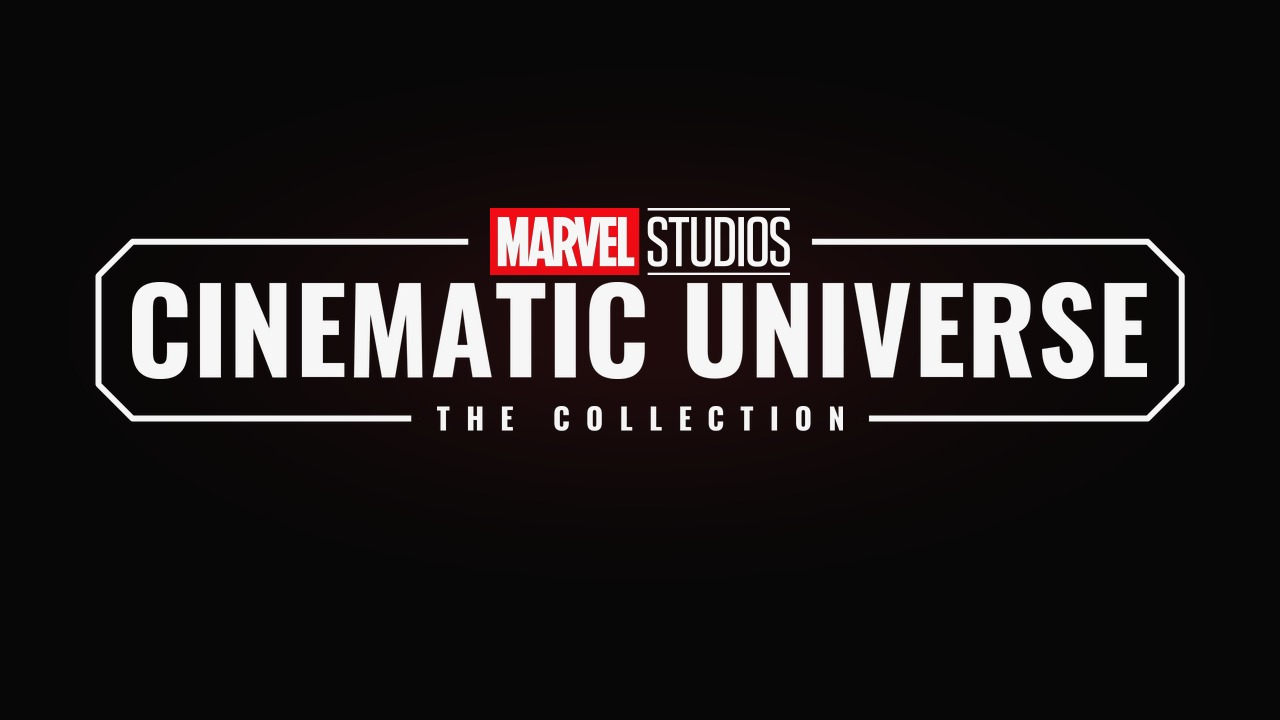
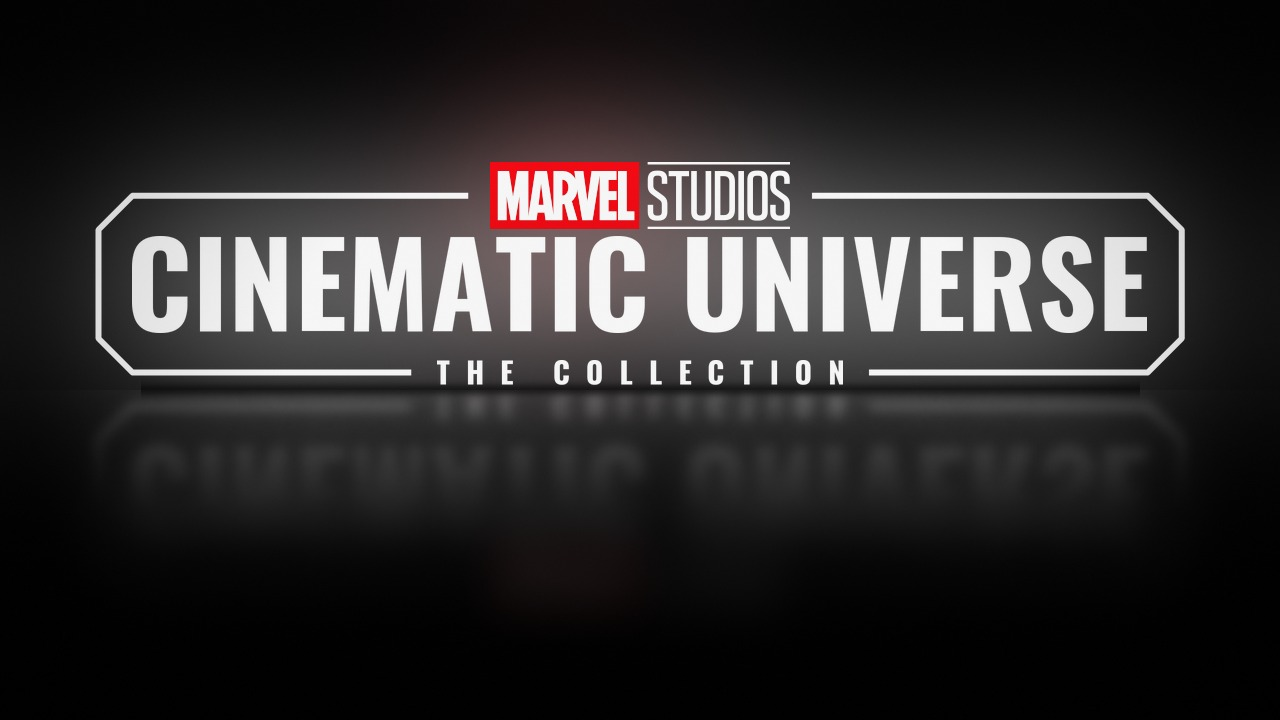
mcu: card redone (the films light the room, floor, camera arc)
Claude-Session: https://claude.ai/code/session_01QqcAdMGokHGeFf5PAk1q99

diff --git a/art/universes/mcu/_src/README.md b/art/universes/mcu/_src/README.md
@@ -1,3 +1,8 @@
+MCU card, rendered by nuvio-awards/art_tools/mcu_light.py (it uses mcu_ident.py --layout universe for the box):
+  python3 art_tools/mcu_light.py <this _src dir> <out dir>
+The films flip inside CINEMATIC UNIVERSE as before; they light the dark room and a glossy black floor, the box stands
+on the floor with its reflection, the camera arcs slowly round it. The first version's closing flash and sweep are gone.
+
 MCU card (Marvel Studios ident, "Cinematic Universe" box layout), rendered by nuvio-awards/art_tools/mcu_ident.py:
   python3 art_tools/mcu_ident.py <this _src dir> <out dir> --layout universe
 - marvel-studios.svg: the Marvel Studios company logo on TMDB (company 420).
